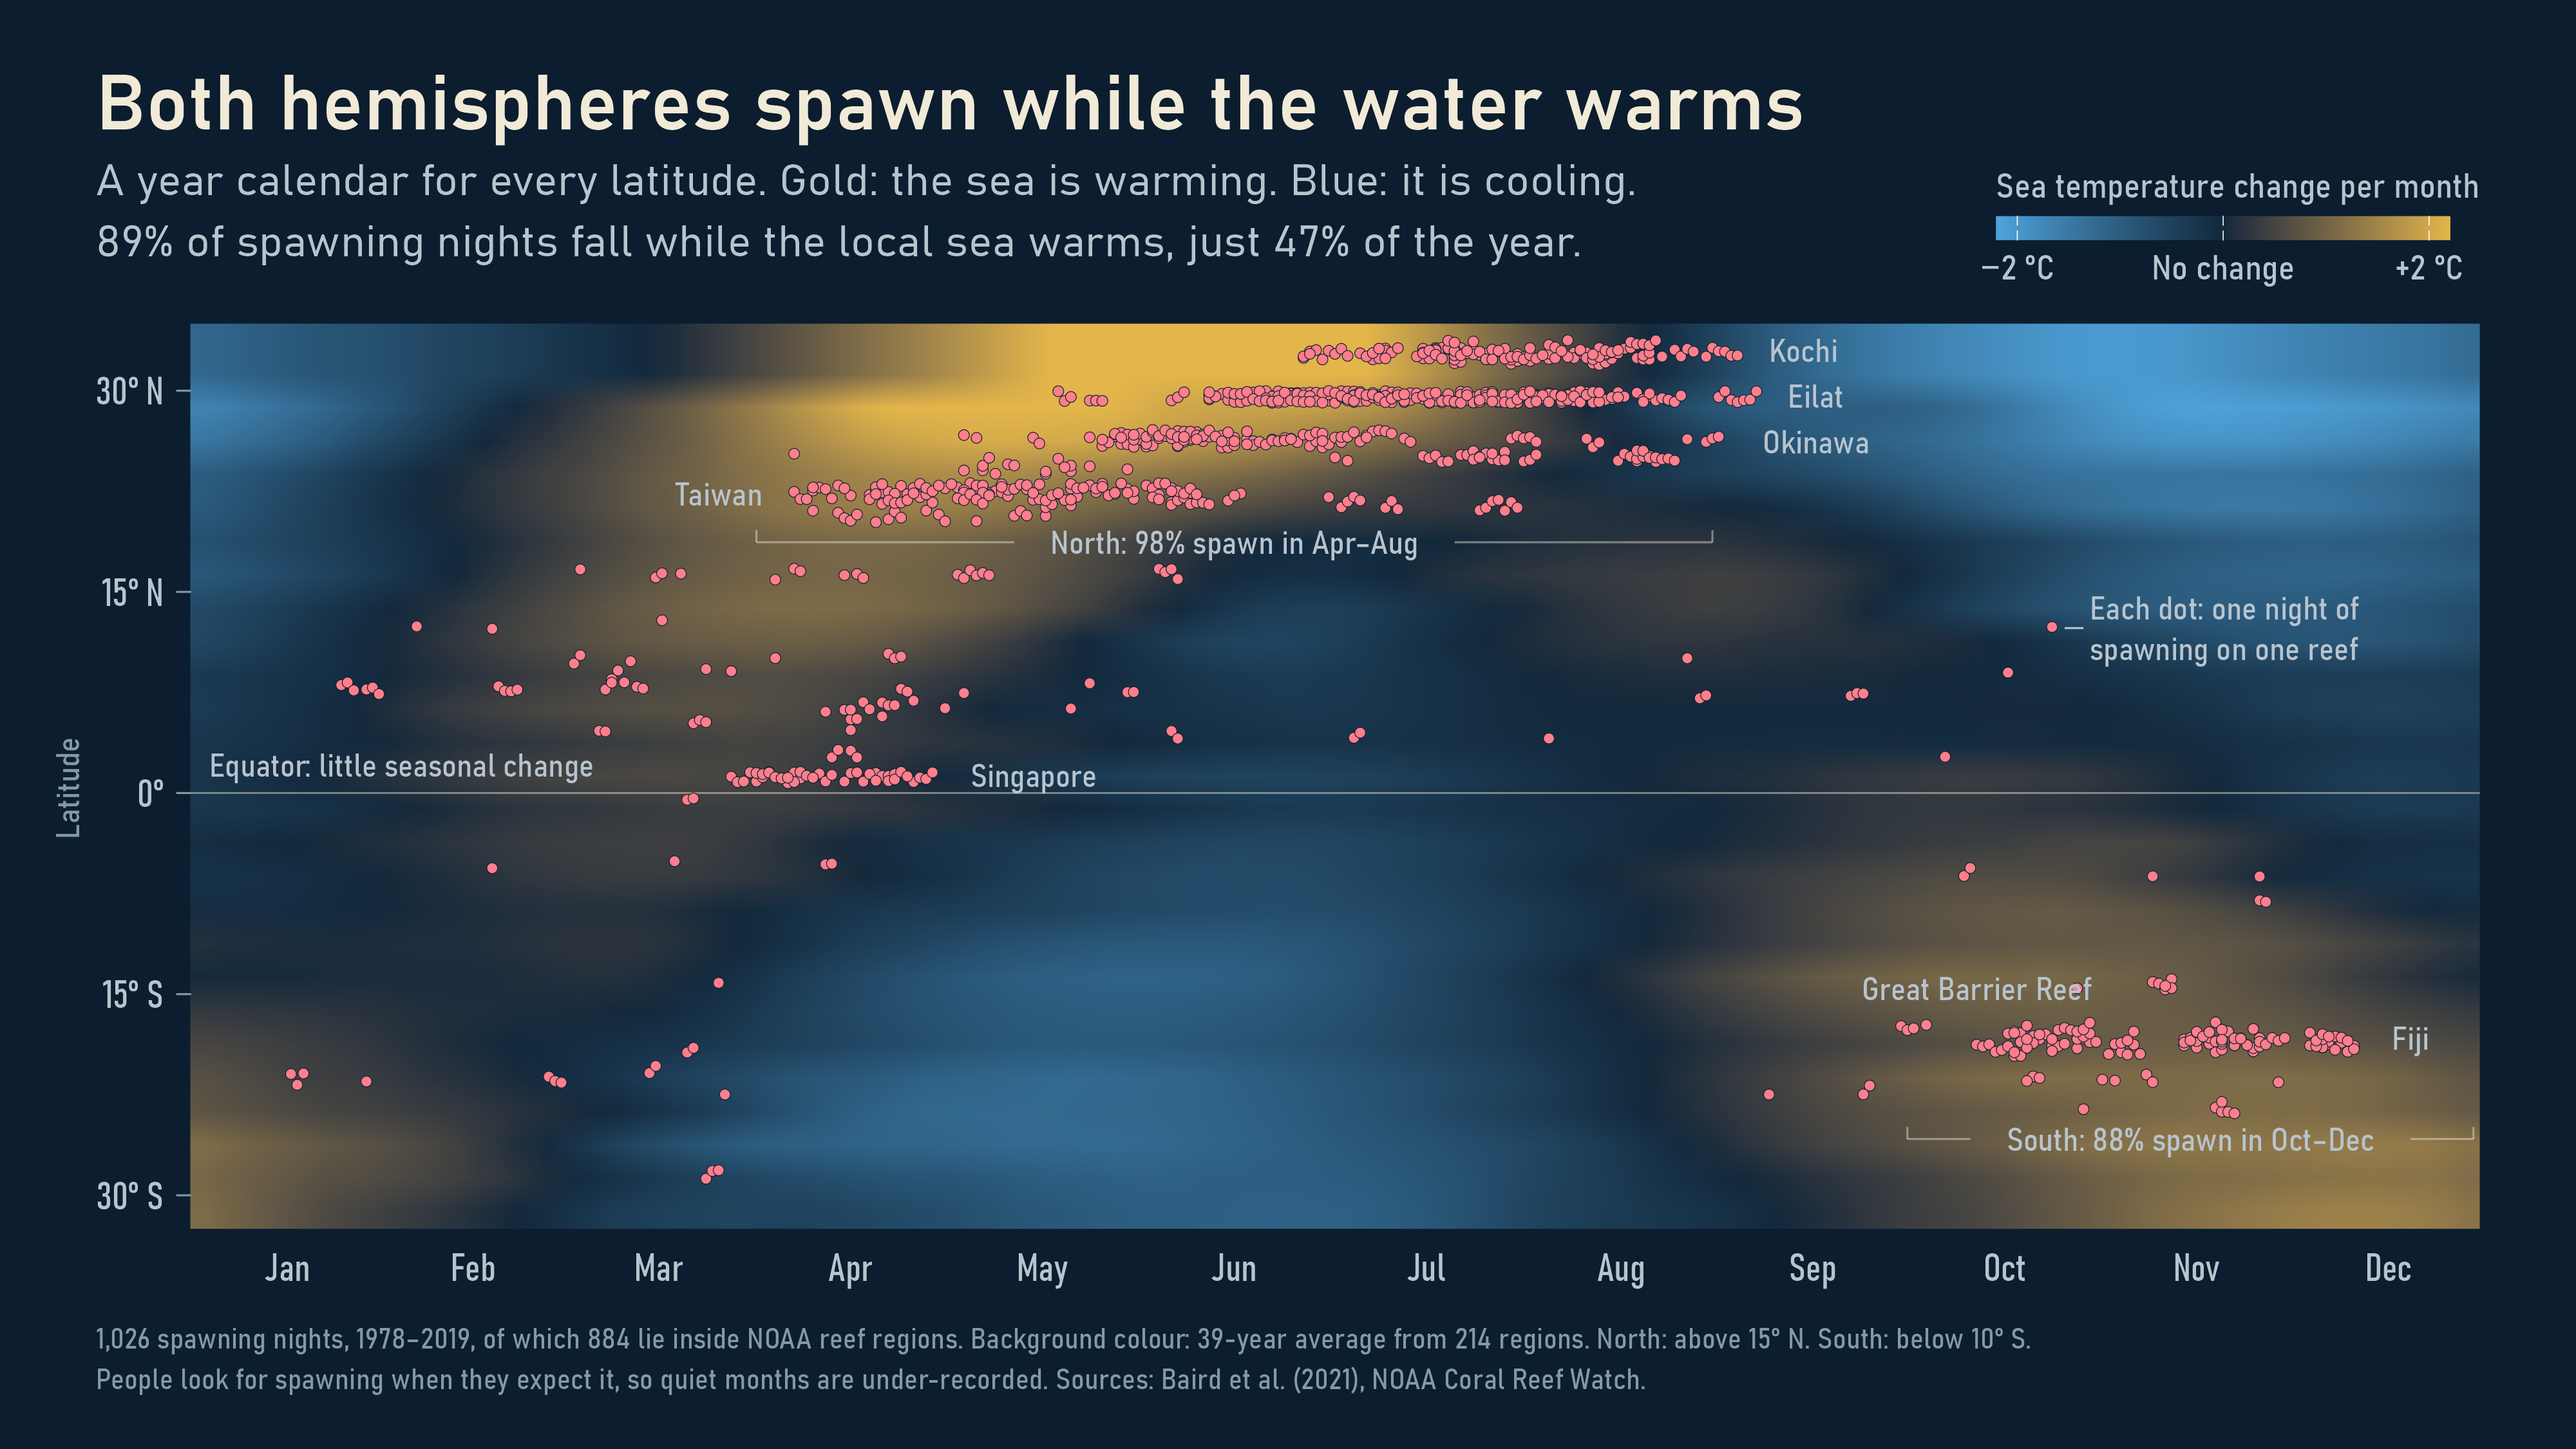
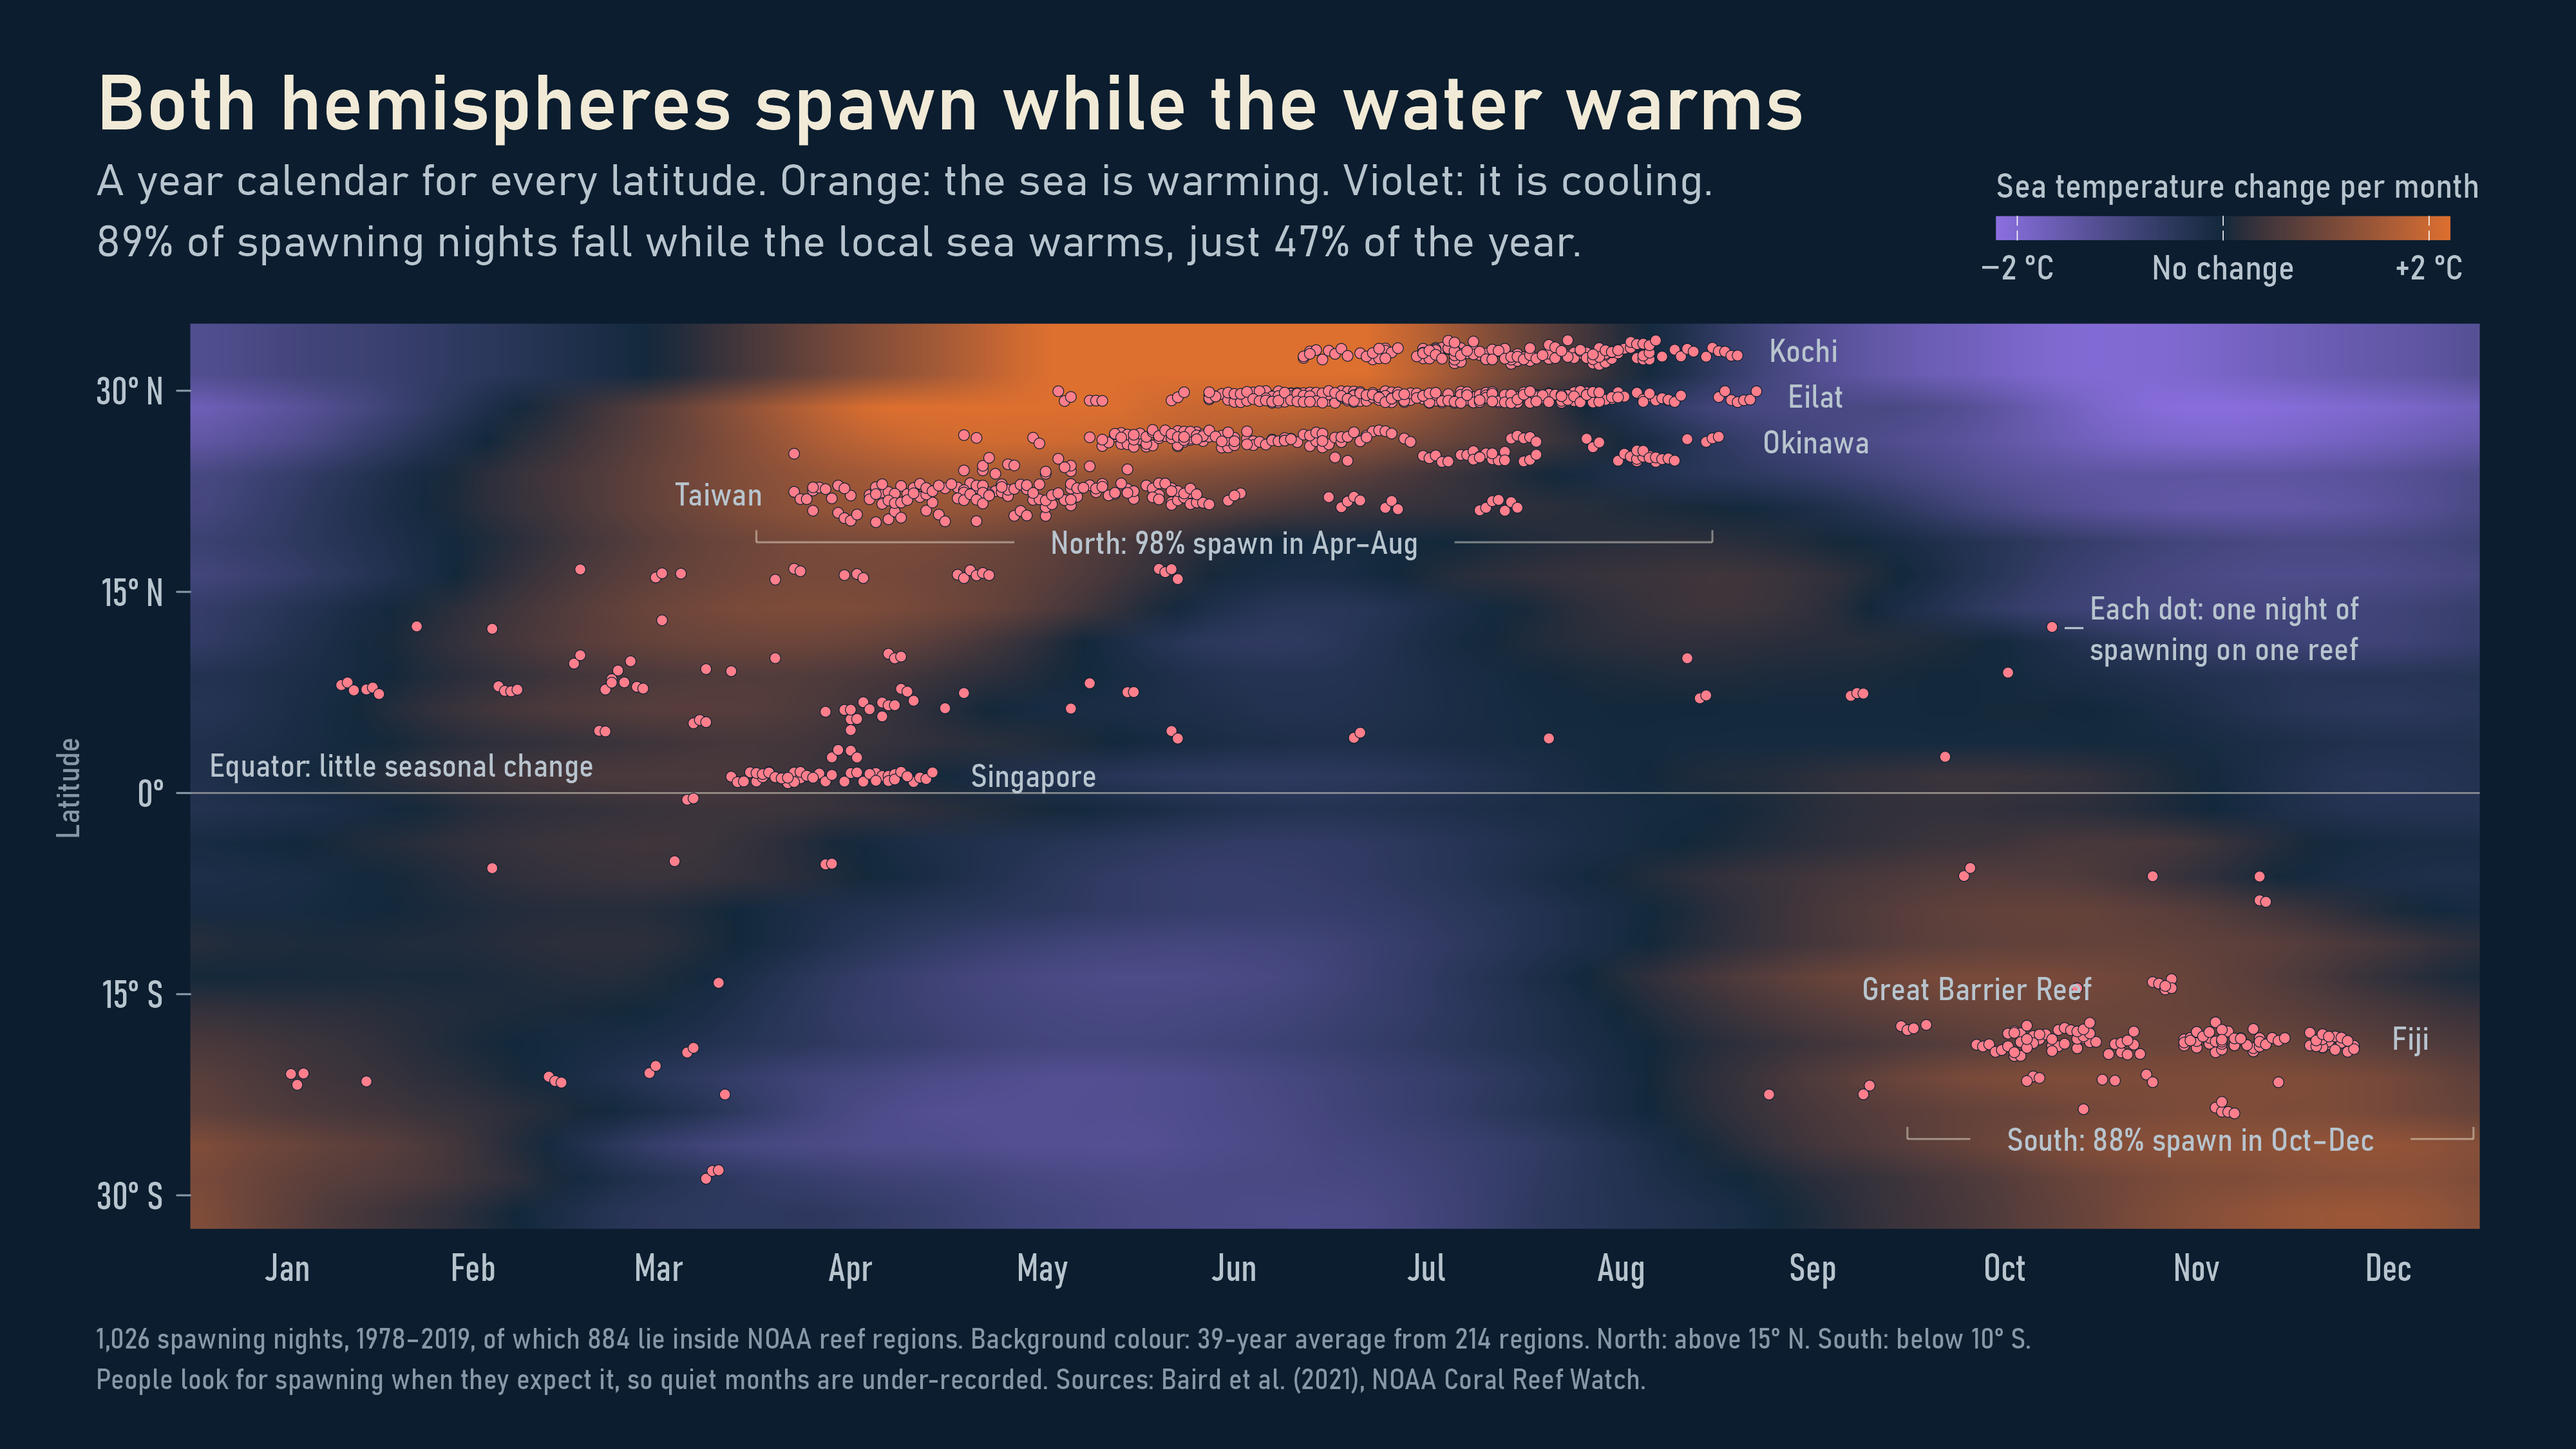
refactor: use violet and orange on plot 2
Blue and gold made the plot look like sea and land on a world map.

diff --git a/docs/PLOT_GUIDE.md b/docs/PLOT_GUIDE.md
@@ -2,7 +2,7 @@
 
 The eight plots answer one question from the assignment: what tells a reef that tonight is the night, and how does that fit the rhythms of the ocean? Each plot has one job and fits a Prezi frame at 16:9.
 
-Colour means the same thing everywhere. Pink is a spawning record. Cream is the Moon, or a line you should read. Gold and blue are warming and cooling water. The ramp from purple to pale yellow is heat stress.
+Colour means the same thing everywhere. Pink is a spawning record. Cream is the Moon, or a line you should read. Orange and violet are warming and cooling water on plot 2. The ramp from purple to pale yellow is heat stress.
 
 With two minutes per plot and five slides at most, the strongest route is 1, 4, 3, 5 and 7. Plot 1 sets up the three clocks, plot 4 is the clearest result, plots 3 and 5 complicate the Moon, and plot 7 says why any of this matters now. Plots 2, 6 and 8 are ready if you have time or get asked.
 
@@ -16,7 +16,7 @@ If someone asks why you used circles: the end of each cycle runs straight into i
 
 ## 2. The year
 
-The backdrop shows how fast the sea warms (gold) or cools (blue) at each latitude through the year, from all 214 NOAA regions. Each pink dot is one recorded reef-night at its real date and latitude.
+The backdrop shows how fast the sea warms (orange) or cools (violet) at each latitude through the year, from all 214 NOAA regions. Each pink dot is one recorded reef-night at its real date and latitude.
 
 Point at the northern cluster around April to August and the southern one around October to December. The months are about half a year apart, and both clusters sit on gold. Then give the number: 89% of reef-nights fall in the warming part of the local year, which is 47% of it.
 
